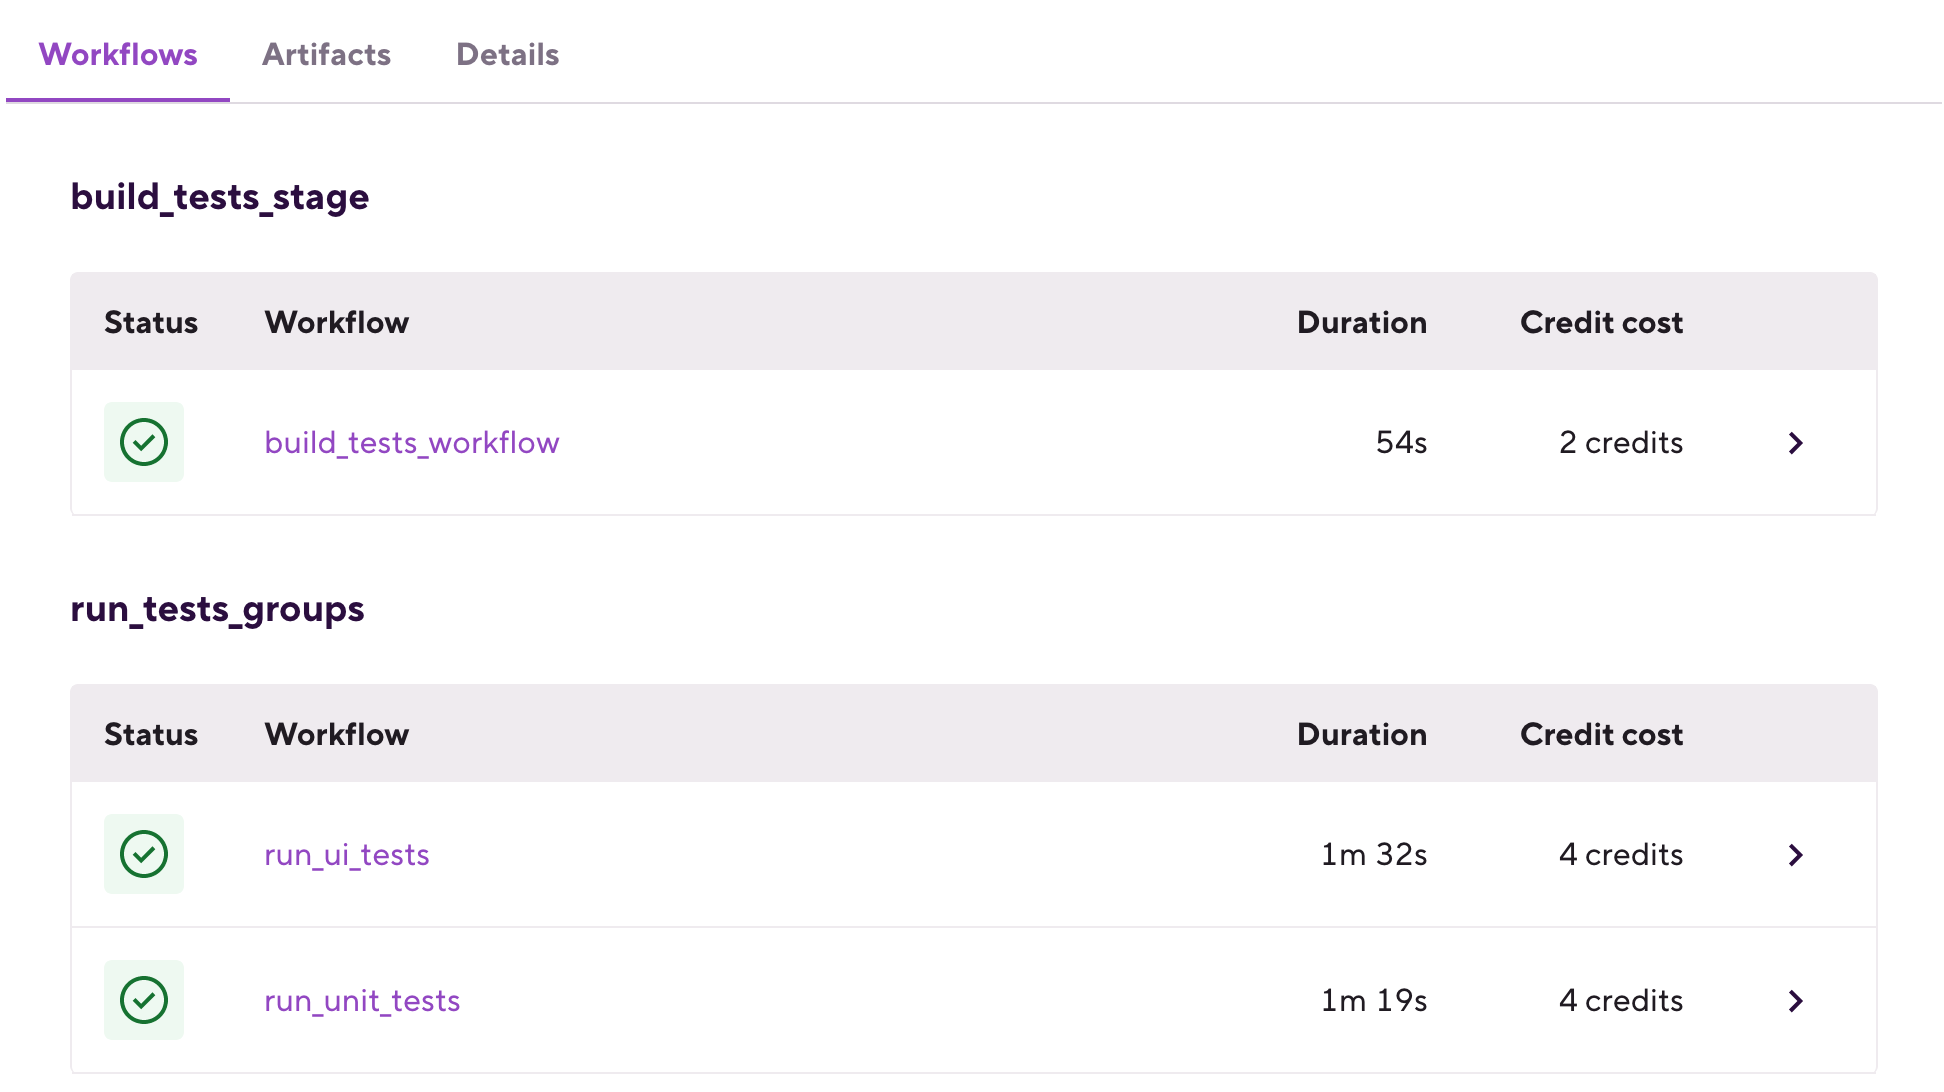
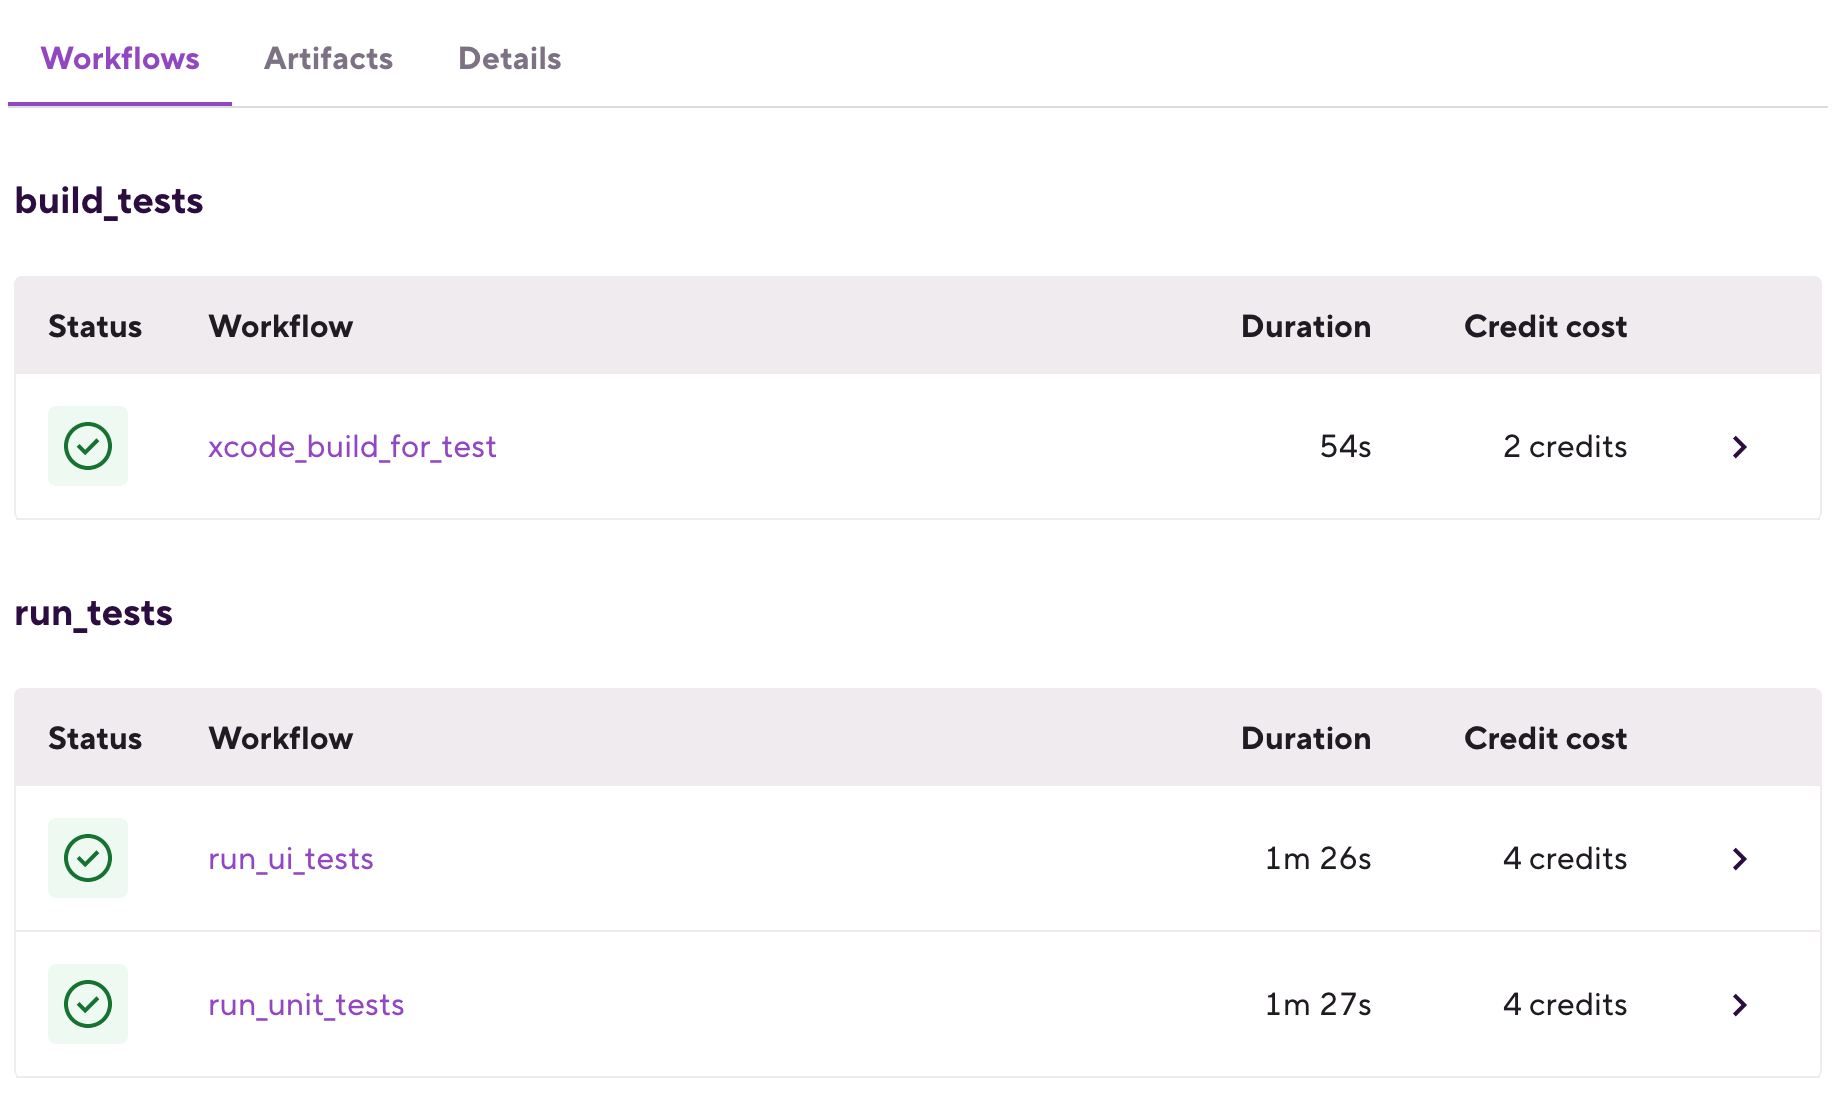
address review comments

diff --git a/recipes/ios-run-tests-in-parallel-on-multiple-simulators.md b/recipes/ios-run-tests-in-parallel-on-multiple-simulators.md
@@ -6,12 +6,12 @@ This example uses the [sample-swift-project-with-parallel-ui-test](https://githu
 
 The example Pipeline config showcases how to run all the test cases of the project on different iOS simulators.
 
-`run_tests_on_simulators` Pipeline runs two Stages sequentially:
-1. `build_tests` Stage that runs the `build_tests` Workflow. This Workflow git clones the sample project and runs the `xcode-build-for-test` Step to build the target and associated tests. The built test bundle is transferred to the next Stage (`run_tests_on_simulators`) via the `deploy-to-bitrise-io` Step.
+`build_and_run_tests` Pipeline runs two Stages sequentially:
+1. `build_tests` Stage that runs the `xcode_build_for_test` Workflow. This Workflow git clones the sample project and runs the `xcode-build-for-test` Step to build the target and associated tests. The built test bundle is transferred to the next Stage (`run_tests_on_simulators`) via the `deploy-to-bitrise-io` Step.
 
     **Note**: `xcode-build-for-test` Step compresses the built test bundle and moves the generated zip to the `$BITRISE_DEPLOY_DIR`, that directory’s content is deployed to the Workflow artifacts by default via the `deploy-to-bitrise-io` Step.
 
-1. `run_tests_on_simulators` Stage runs three Workflows in parallel: `run_tests_iPhone`, `run_tests_iPad`, and `run_tests_iPod`. Both of these Workflows use the new `xcode-test-without-building` Step, which executes the tests based on the previous Stage built test bundle. The pre-built test bundle is pulled by the `_pull_test_bundle` utility Workflow.
+1. `run_tests` Stage runs three Workflows in parallel: `run_tests_on_iPhone`, `run_tests_on_iPad`, and `run_tests_on_iPod`. Both of these Workflows use the new `xcode-test-without-building` Step, which executes the tests based on the previous Stage built test bundle. The pre-built test bundle is pulled by the `_pull_test_bundle` utility Workflow.
 
 ![A screenshot of the example Pipeline in Bitrise's web UI](./ios-run-tests-in-parallel-on-multiple-simulators.png)
 
@@ -26,7 +26,7 @@ The example Pipeline config showcases how to run all the test cases of the proje
 1. Confirm the offered stack, skip choosing the app icon and the webhook registration and kick off the first build.
 1. Open the new Bitrise project’s Workflow Editor.
 1. Go to the **bitrise.yml** tab and replace the existing `bitrise.yml` with the contents of the example bitrise.yml below.
-1. Click the **Start/Schedule a Build** button, and select the `run_tests_on_simulators` option in the **Workflow, Pipeline** dropdown menu at the bottom of the popup.
+1. Click the **Start/Schedule a Build** button, and select the `build_and_run_tests` option in the **Workflow, Pipeline** dropdown menu at the bottom of the popup.
 
 
 ## bitrise.yml
@@ -47,24 +47,24 @@ meta:
     stack: osx-xcode-13.2.x
 
 pipelines:
-  run_tests_on_simulators:
+  build_and_run_tests:
     stages:
-    - build_tests_stage: {}
-    - run_tests_on_simulators: {}
+    - build_tests: {}
+    - run_tests: {}
 
 stages:
-  build_tests_stage:
+  build_tests:
     workflows:
-    - build_tests_workflow: {}
+    - xcode_build_for_test: {}
 
-  run_tests_on_simulators:
+  run_tests:
     workflows:
-    - run_tests_iPhone: {}
-    - run_tests_iPad: {}
-    - run_tests_iPod: {}
+    - run_tests_on_iPhone: {}
+    - run_tests_on_iPad: {}
+    - run_tests_on_iPod: {}
 
 workflows:
-  build_tests_workflow:
+  xcode_build_for_test:
     steps:
     - git-clone@6: {}
     - xcode-build-for-test@2:
@@ -74,7 +74,7 @@ workflows:
         inputs:
         - pipeline_intermediate_files: "$BITRISE_TEST_BUNDLE_PATH:BITRISE_TEST_BUNDLE_PATH"
 
-  run_tests_iPhone:
+  run_tests_on_iPhone:
     before_run:
     - _pull_test_bundle
     steps:
@@ -83,7 +83,7 @@ workflows:
         - xctestrun: "$BITRISE_TEST_BUNDLE_PATH/BullsEye_FullTests_iphonesimulator15.2-arm64-x86_64.xctestrun"
         - destination: platform=iOS Simulator,name=iPhone 12 Pro Max
 
-  run_tests_iPad:
+  run_tests_on_iPad:
     before_run:
     - _pull_test_bundle
     steps:
@@ -92,7 +92,7 @@ workflows:
         - xctestrun: "$BITRISE_TEST_BUNDLE_PATH/BullsEye_FullTests_iphonesimulator15.2-arm64-x86_64.xctestrun"
         - destination: platform=iOS Simulator,name=iPad (9th generation)
 
-  run_tests_iPod:
+  run_tests_on_iPod:
     before_run:
     - _pull_test_bundle
     steps:
@@ -105,5 +105,5 @@ workflows:
     steps:
     - pull-intermediate-files@1:
         inputs:
-        - artifact_sources: build_tests_stage.build_tests_workflow
+        - artifact_sources: build_tests.xcode_build_for_test
 ```

diff --git a/recipes/ios-run-test-groups-in-parallel.md b/recipes/ios-run-test-groups-in-parallel.md
@@ -8,9 +8,9 @@ This example uses the [sample-swift-project-with-parallel-ui-test](https://githu
 
 The example Pipeline config showcases how to run different test groups in parallel.
 
-`run_tests` pipeline runs two Stages sequentially:
-1. `build_tests_stage` Stage that runs the `build_tests_workflow` Workflow. This Workflow git clones the sample project and runs the `xcode-build-for-test` Step to build the target and associated tests. The built test bundle is transferred to the next Stage (`run_tests_groups`) via the `deploy-to-bitrise-io` Step.
-1. `run_tests_groups` Stage runs two Workflows in parallel: `run_ui_tests` and `run_unit_tests`. Both of these Workflows use the new `xcode-test-without-building` Step, which executes the tests based on the previous Stage built test bundle. The pre-built test bundle is pulled by the `_pull_test_bundle` utility Workflow.
+`build_and_run_tests` pipeline runs two Stages sequentially:
+1. `build_tests` Stage that runs the `xcode_build_for_test` Workflow. This Workflow git clones the sample project and runs the `xcode-build-for-test` Step to build the target and associated tests. The built test bundle is transferred to the next Stage (`run_tests`) via the `deploy-to-bitrise-io` Step.
+1. `run_tests` Stage runs two Workflows in parallel: `run_ui_tests` and `run_unit_tests`. Both of these Workflows use the new `xcode-test-without-building` Step, which executes the tests based on the previous Stage built test bundle. The pre-built test bundle is pulled by the `_pull_test_bundle` utility Workflow.
 
 ![A screenshot of the example Pipeline in Bitrise's web UI](./ios-run-test-groups-in-parallel.png)
 
@@ -25,7 +25,7 @@ The example Pipeline config showcases how to run different test groups in parall
 1. Confirm the offered stack, skip choosing the app icon and the webhook registration and kick off the first build.
 1. Open the new Bitrise project’s Workflow Editor.
 1. Go to the **bitrise.yml** tab and replace the existing `bitrise.yml` with the contents of the example bitrise.yml below.
-1. Click the **Start/Schedule a Build** button, and select the `run_tests` Pipeline option in the **Workflow, Pipeline** dropdown menu at the bottom of the popup.
+1. Click the **Start/Schedule a Build** button, and select the `build_and_run_tests` Pipeline option in the **Workflow, Pipeline** dropdown menu at the bottom of the popup.
 
 
 ## bitrise.yml
@@ -46,23 +46,23 @@ meta:
     stack: osx-xcode-13.2.x
 
 pipelines:
-  run_tests:
+  build_and_run_tests:
     stages:
-    - build_tests_stage: {}
-    - run_tests_groups: {}
+    - build_tests: {}
+    - run_tests: {}
 
 stages:
-  build_tests_stage:
+  build_tests:
     workflows:
-    - build_tests_workflow: {}
+    - xcode_build_for_test: {}
 
-  run_tests_groups:
+  run_tests:
     workflows:
     - run_ui_tests: {}
     - run_unit_tests: {}
 
 workflows:
-  build_tests_workflow:
+  xcode_build_for_test:
     steps:
     - git-clone@6: {}
     - xcode-build-for-test@2:
@@ -94,5 +94,5 @@ workflows:
     steps:
     - pull-intermediate-files@1:
         inputs:
-        - artifact_sources: build_tests_stage.build_tests_workflow
+        - artifact_sources: build_tests.xcode_build_for_test
 ```

diff --git a/recipes/ios-merging-test-results-and-deploying-to-the-test-reports-add-on.md b/recipes/ios-merging-test-results-and-deploying-to-the-test-reports-add-on.md
@@ -8,7 +8,7 @@ This example uses the [sample-swift-project-with-parallel-ui-test](https://githu
 
 `run_ui_tests` and `run_unit_tests` Workflows are extended with a `deploy-to-bitrise-io` Step to make the generated test results available for the next Stage.
 
-`run_tests_groups` Pipeline is extended with a new Stage: `deploy_test_results`.
+`build_and_run_tests` Pipeline is extended with a new Stage: `deploy_test_results`.
 
 This Stage runs the `deploy_test_results` Workflow:
 1. `pull-intermediate-files` Step downloads the previous stage (`run_tests_groups`) generated test results.
@@ -28,7 +28,7 @@ This Stage runs the `deploy_test_results` Workflow:
 1. Confirm the offered stack, skip choosing the app icon and the webhook registration and kick off the first build.
 1. Open the new Bitrise project’s Workflow Editor.
 1. Go to the **bitrise.yml** tab and replace the existing `bitrise.yml` with the contents of the example bitrise.yml below.
-1. Click the **Start/Schedule a Build** button, and select the `run_tests_groups` option in the **Workflow, Pipeline** dropdown menu at the bottom of the popup.
+1. Click the **Start/Schedule a Build** button, and select the `build_and_run_tests` Pipeline option in the **Workflow, Pipeline** dropdown menu at the bottom of the popup.
 1. Open the Pipeline’s build page.
 1. Select the `deploy_test_results` build.
 1. Click on **Details & Add-ons** on the build details page and select the Test Reports add-on to view the merged test reports.
@@ -51,28 +51,28 @@ meta:
     stack: osx-xcode-13.2.x
 
 pipelines:
-  run_tests_groups:
+  build_and_run_tests:
     stages:
-    - build_tests_stage: {}
+    - build_tests: {}
     - run_tests_groups: {}
-    - deploy_test_results_stage: {}
+    - deploy_test_results: {}
 
 stages:
-  build_tests_stage:
+  build_tests:
     workflows:
-    - build_tests_workflow: {}
+    - xcode_build_for_test: {}
 
   run_tests_groups:
     workflows:
     - run_ui_tests: {}
     - run_unit_tests: {}
 
-  deploy_test_results_stage:
+  deploy_test_results:
     workflows:
-    - deploy_test_results_workflow: {}
+    - merge_and_deploy_test_results: {}
 
 workflows:
-  build_tests_workflow:
+  xcode_build_for_test:
     steps:
     - git-clone@6: {}
     - xcode-build-for-test@2:
@@ -106,7 +106,7 @@ workflows:
         inputs:
         - pipeline_intermediate_files: "$BITRISE_XCRESULT_PATH:BITRISE_UNIT_TEST_XCRESULT_PATH"
 
-  deploy_test_results_workflow:
+  merge_and_deploy_test_results:
     steps:
     - pull-intermediate-files@1:
         inputs:
@@ -139,5 +139,5 @@ workflows:
     steps:
     - pull-intermediate-files@1:
         inputs:
-        - artifact_sources: build_tests_stage.build_tests_workflow
+        - artifact_sources: build_tests.xcode_build_for_test
 ```
